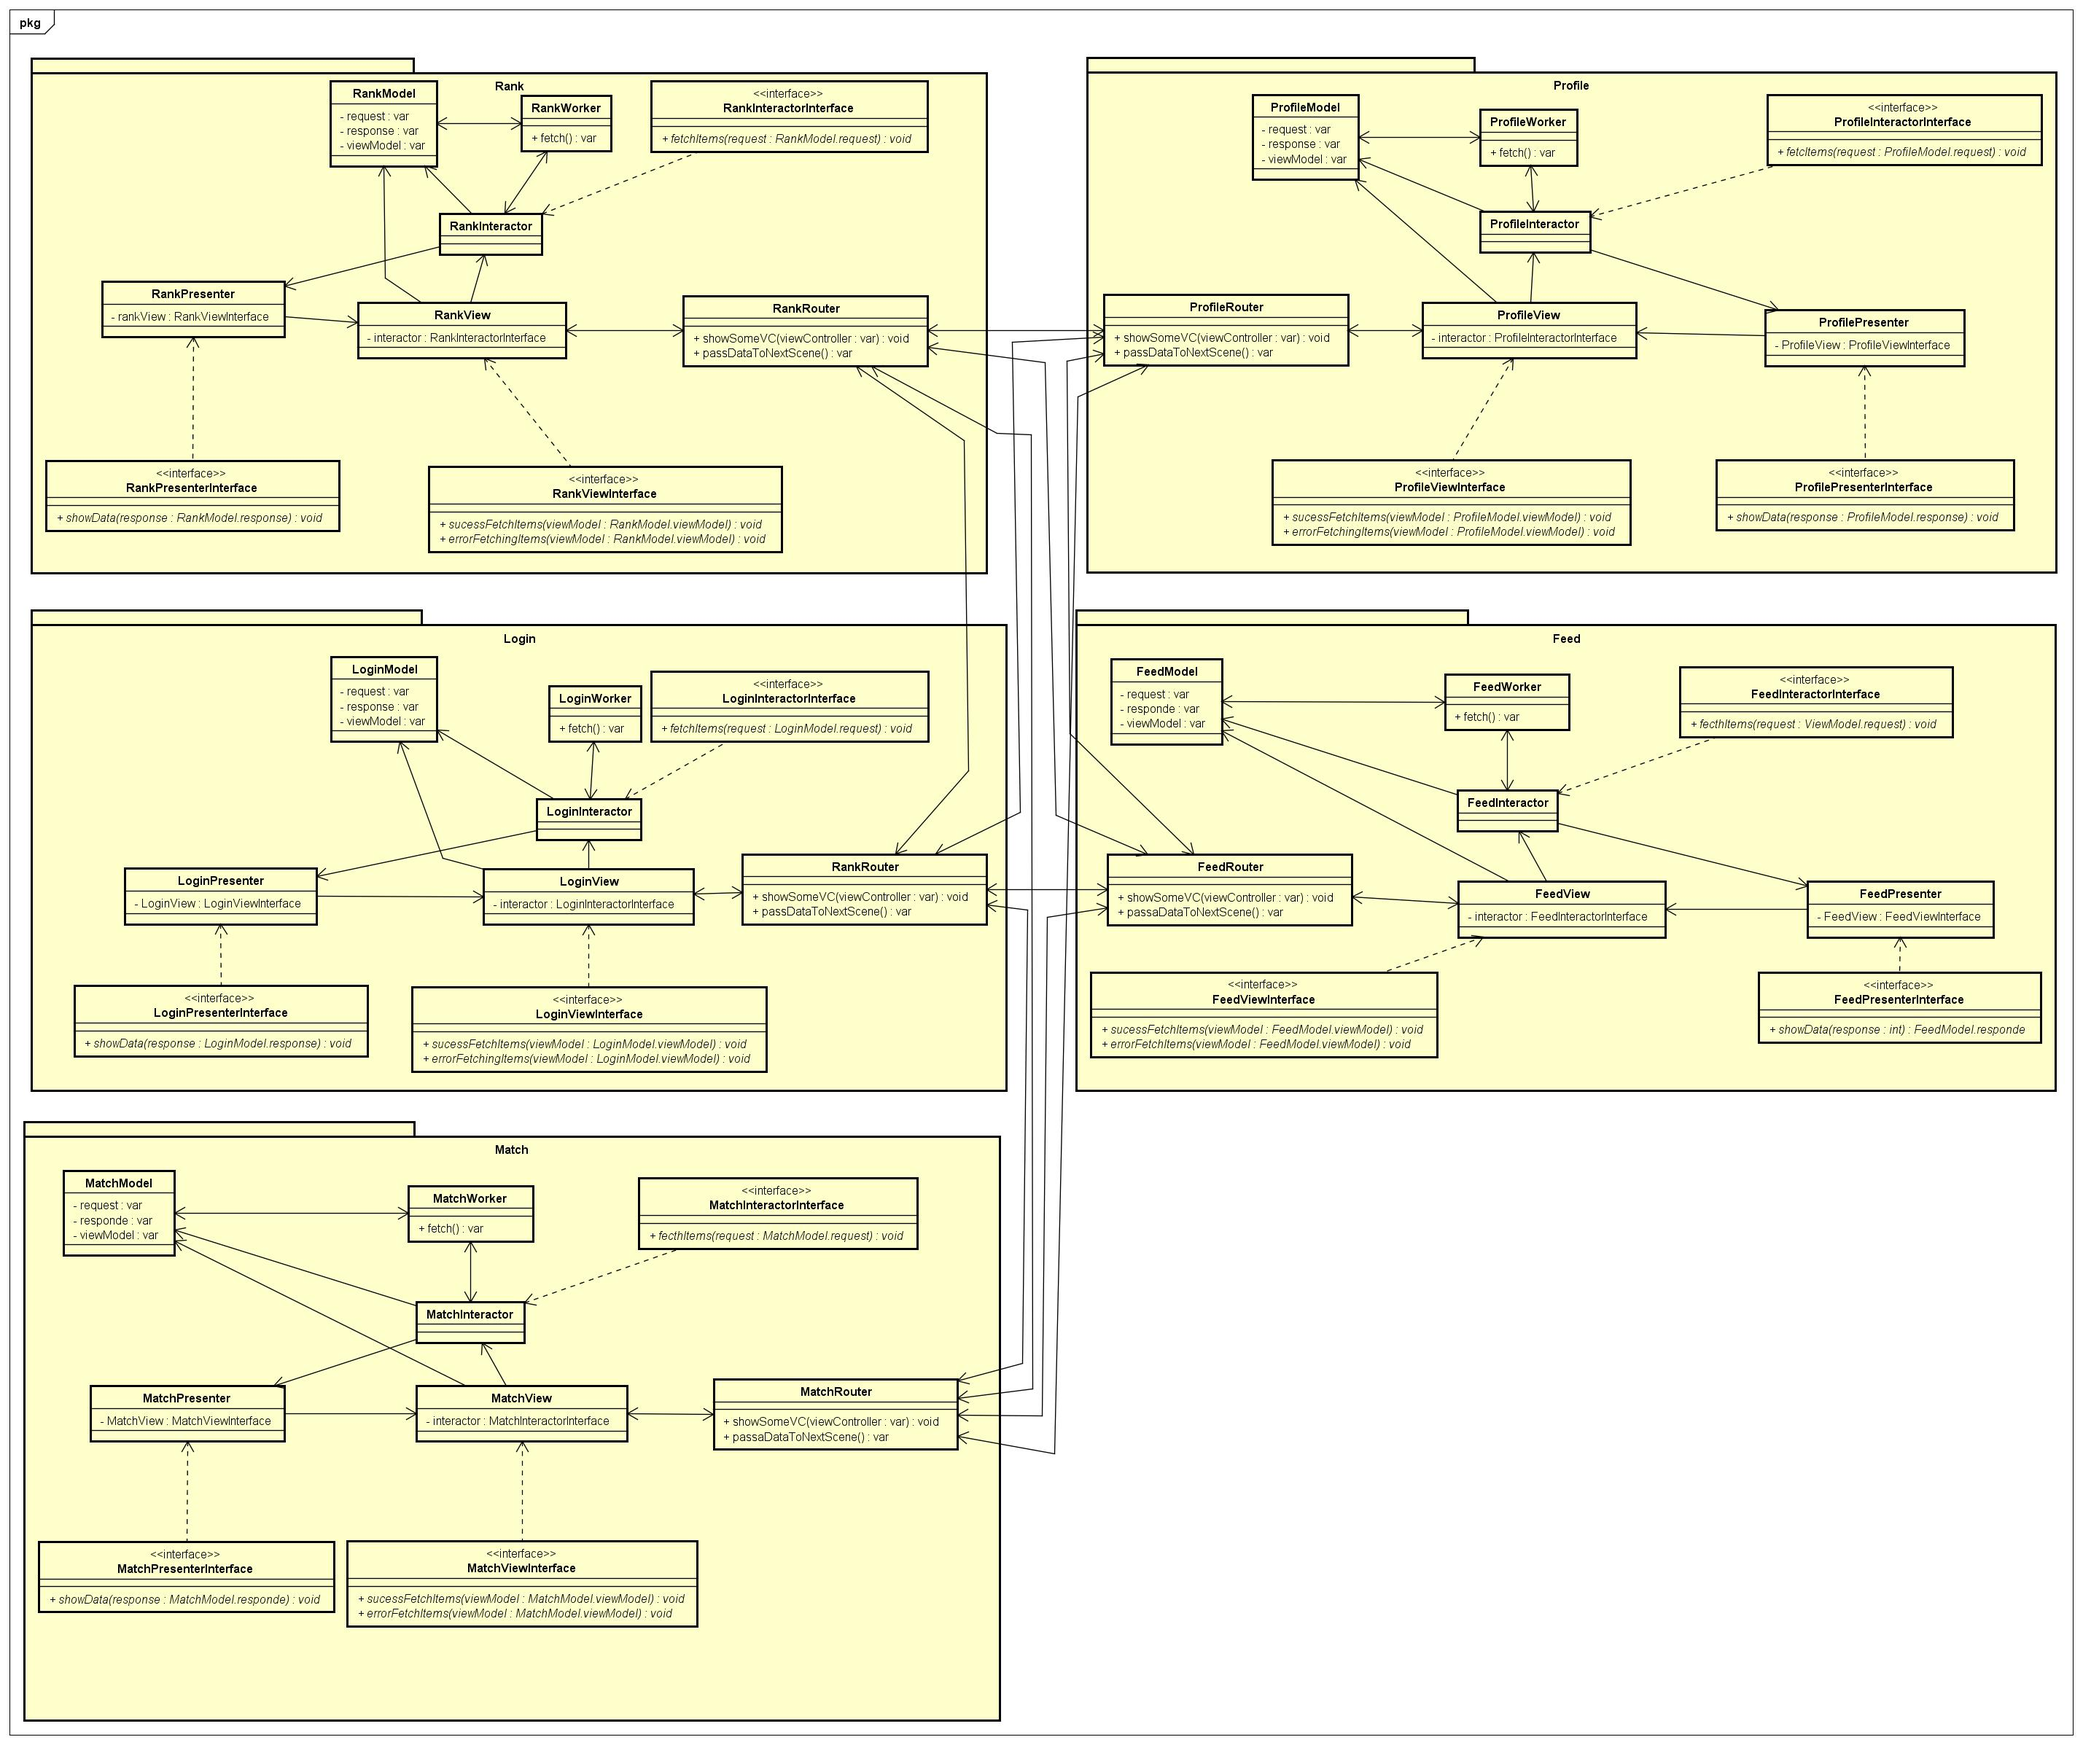
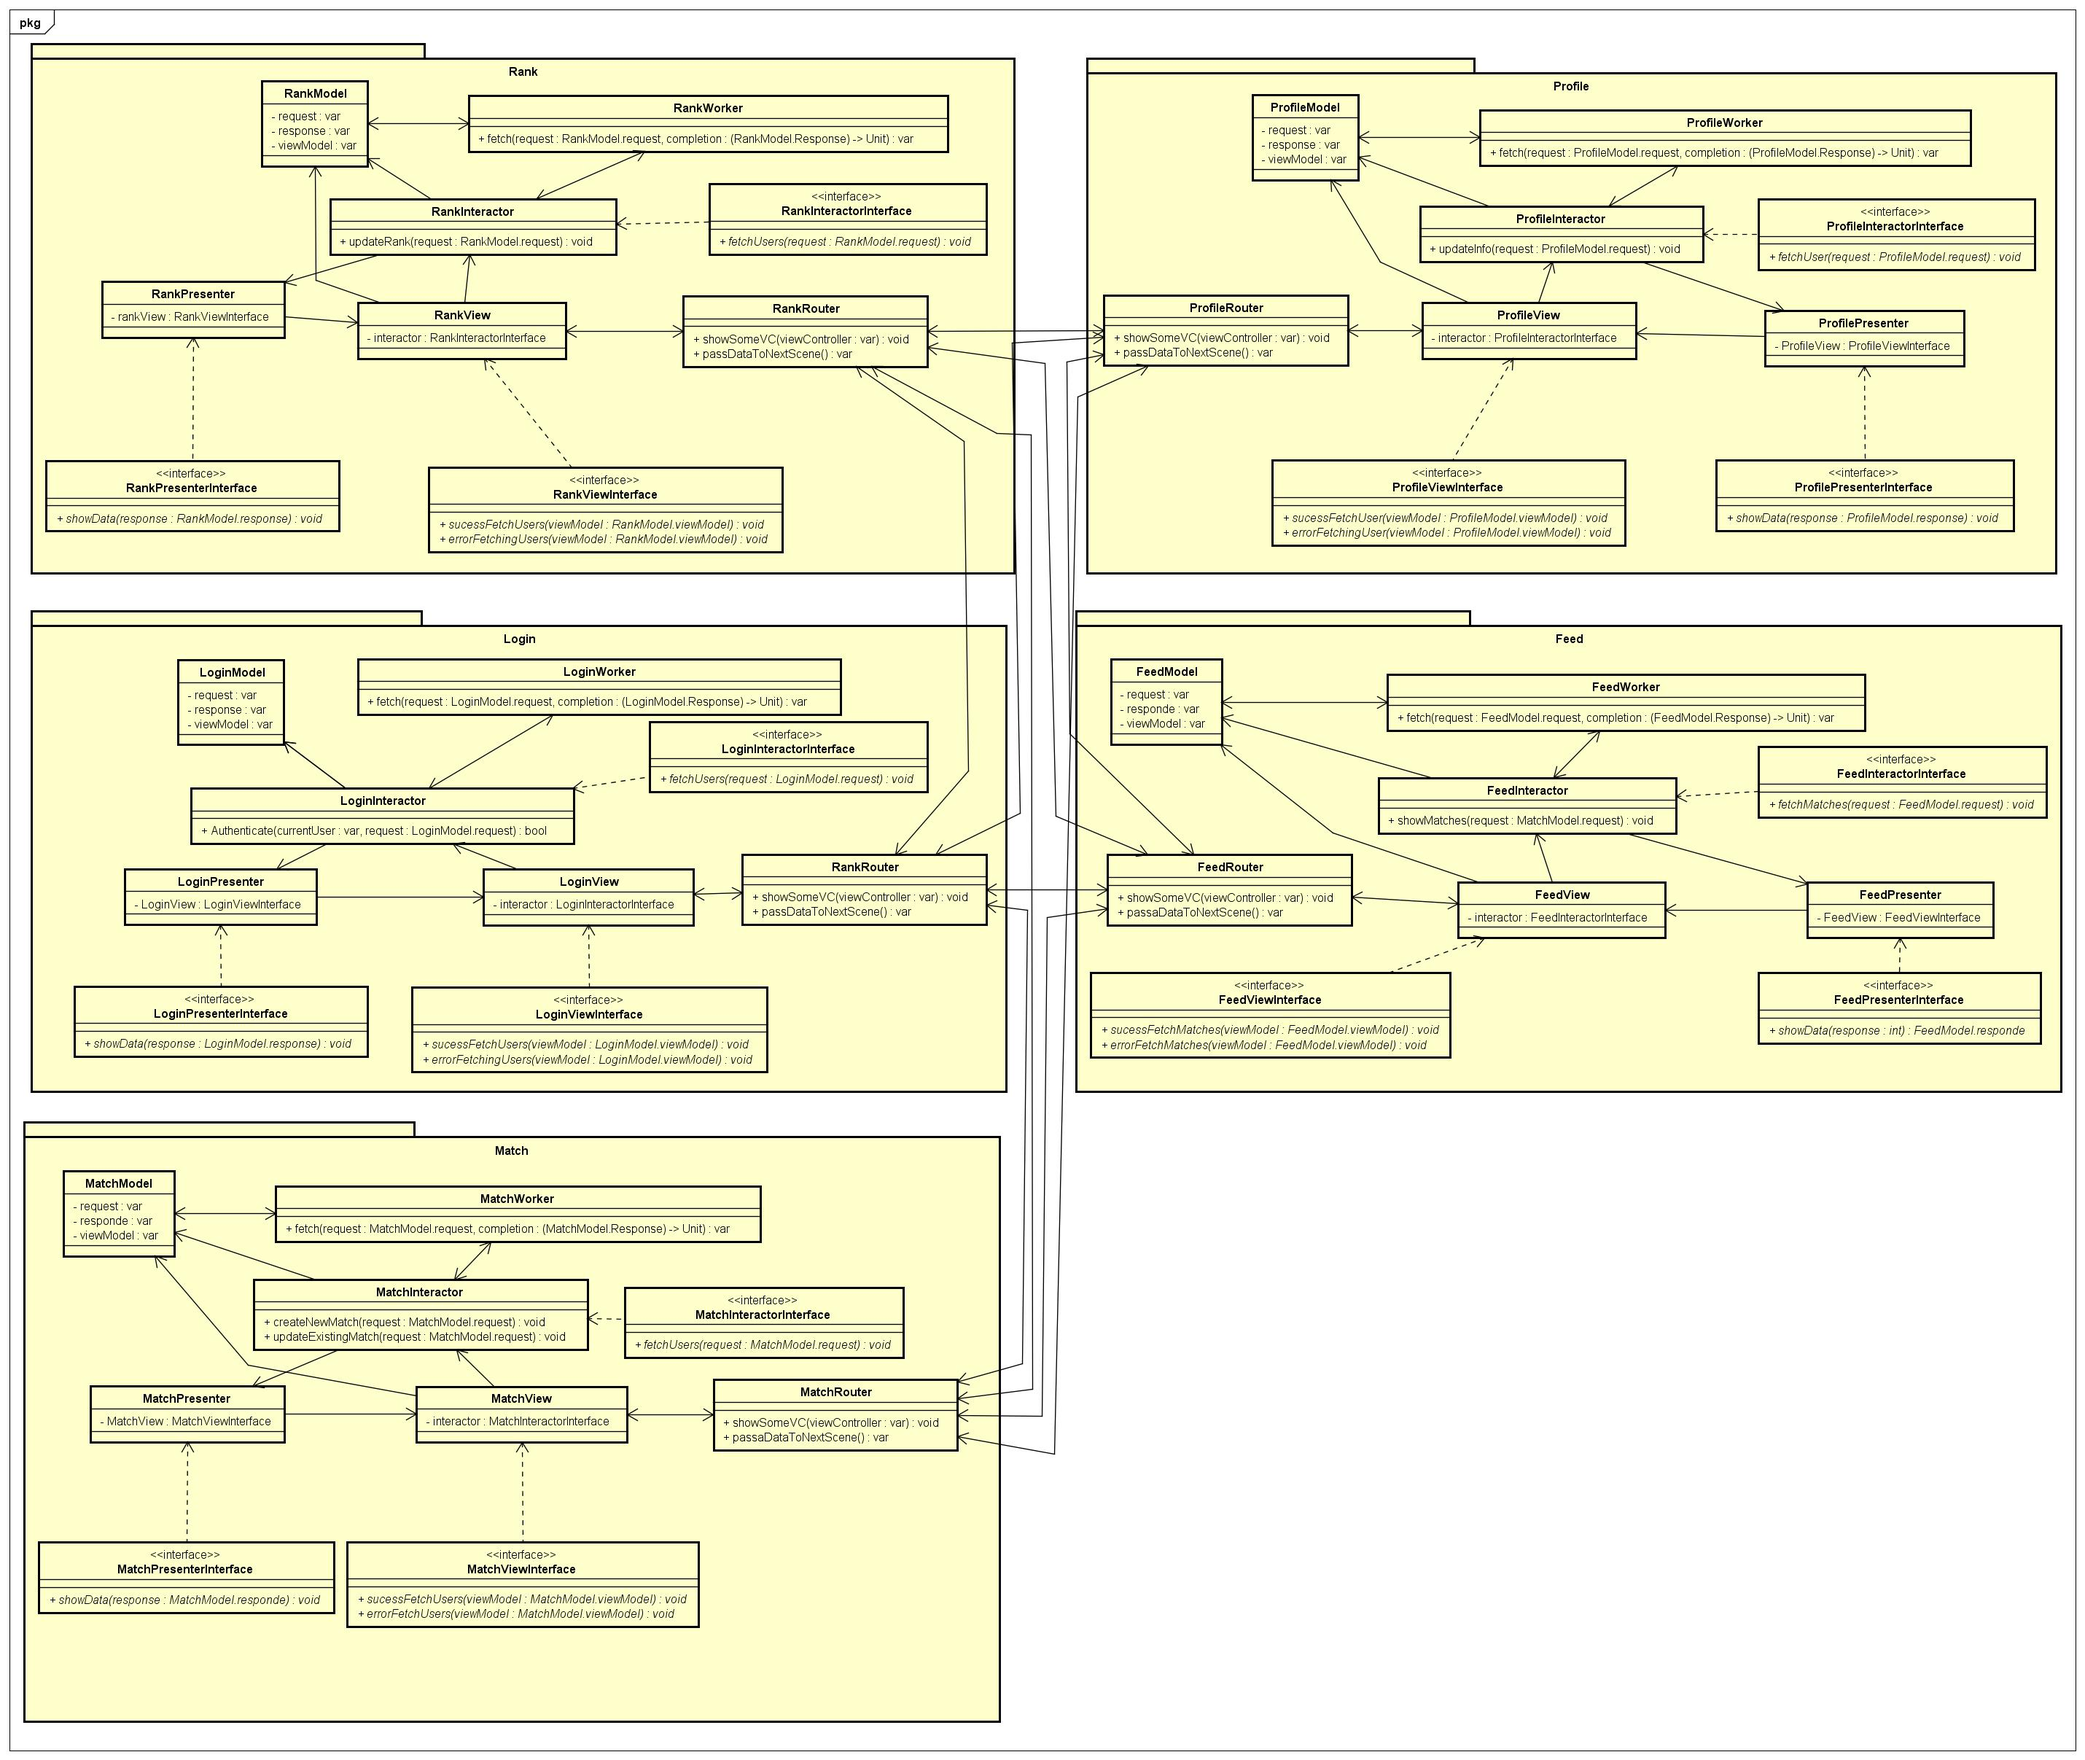
Fixed some topics and class diagram. Co-authored-by: Letícia Meneses <lmbs.geo@gmail.com> Co-authored-by: Lorrany Freire <lorranyfreire@hotmail.com>

Changed region(s): [[0.0, 0.0, 0.9968, 0.8346], [0.0, 0.8655, 0.3427, 0.9273], [0.0, 0.9582, 0.4984, 0.9891]]

diff --git a/Docs/DocArquitetura.md b/Docs/DocArquitetura.md
@@ -12,31 +12,31 @@
 | 21/03/2018| 0.5.1 | Revisão de texto e padronização do formato das tabelas| Alexandre Miguel |
 | 21/03/2018| 0.6 | Adicionado diagrama de classes | Gabriel Albino, Letícia Meneses e Lorrany Freire |
 | 21/03/2018| 0.7 | Adicionado o índice analítico e definidos os aspectos de qualidade | Alexandre Miguel e Helena Goulart |
+| 21/03/2018| 0.7.1 | Realizadas correções nos tópicos e no diagrama de classes | Gabriel Albino, Letícia Meneses e Lorrany Freire |
+
 
 ### Índice Analítico
-* [**1 Introdução**](#1-introdução)
-  * [1.1 Finalidade](#11-finalidade)
-  * [1.2 Escopo](#12-acrônimos-e-abreviações-escopo)
-  * [1.3 Definições, acrônimos e abreviações](#13-definições,-acrônimos-e-abreviações)
-  * [1.4 Referências](#14-referências)
-* [**2 Representação Arquitetural**](#2-Representação-arquitetural)
-* [**3 Requisitos e Restrições de Arquitetura**](#3-Requisitos-e-restrições-de-arquitetura)
-  * [3.1 Requisitos Gerais](#31-Restriçequisitos)
-  * [3.2 Restrições de Arquitetura](#32-Restrições de Arquitetura)
-* [**4 Visão Lógica**](#4-Visão-lógica)
-  * [4.1 Visão Geral - Pacotes e Camadas](#41-Visão-Geral-Pacotes-e-Camadas)
-  	* [4.1.1 Diagrama de Pacotes](#411-diagrama-de-pacotes)
-  	* [4.1.2 Diagrama de Camadas](#412-diagrama-de-camadas)  
-* [**5 Visão de implementação**](#5-visão-de-implementação)  
-  * [5.1 Casos de uso](#51-Casos-de-uso)
-  	* [5.1.1 Diagrama de Clases](#52-Diagrama-de-classes)
-  	* [5.1.2 Diagrama de Sequência](#53-Diagrama-de-sequência)
-* [**6 Visão de Implantação**](#6-Visão-de-implantação)
-* [**7 Dimensionamento**](#7-Dimensionamento)
-* [**8 Qualidade**](#8-Qualidade)
-  
 
-# Documento de arquitetura
+* [1 INTRODUÇÃO](#1-introdução)
+    * [1.1 Finalidade](#11-finalidade)
+    * [1.2 Escopo](#12-escopo)
+    * [1.3 Definições, Acrônimos e Abreviações](#13-definições-acrônimos-e-abreviações)
+    * [1.4 Referências](#14-referências)
+* [2. REPRESENTAÇÃO ARQUITETURAL](#2-representação-arquitetural)
+* [3. REQUISITOS E RESTRIÇÕES DE ARQUITETURA](#3-requisitos-e-restrições-de-arquitetura)
+    * [3.1 Requisitos gerais](#31-requisitos-gerais)
+    * [3.2 Restrições de arquitetura](#32-restrições-de-arquitetura)
+* [4. VISÃO LÓGICA](#4-visÃo-lógica)
+    * [4.1 Visão Geral – pacotes e camadas](#41-visão-geral-–-pacotes-e-camadas)
+    * [4.1.1 Diagrama de pacotes](#411-diagrama-de-pacotes)
+    * [4.1.2 Diagrama de camadas](#412-diagrama-de-camadas)
+* [5. VISÃO DE IMPLEMENTAÇÃO](#5-visão-de-implementação)
+    * [5.1 Caso de Uso](#51-caso-de-uso)
+    * [5.1.1  <em>Diagrama de Classes</em>](#511--diagrama-de-classes)
+    * [5.1.2 <em>Diagrama de Sequência</em>](#512-diagrama-de-sequência)
+* [6. VISÃO DE IMPLANTAÇÃO](#6-visão-de-implantação)
+* [7. DIMENSIONAMENTO](#7-dimensionamento)
+* [8. QUALIDADE](#8-qualidade)
 
 ## Nexte
 
@@ -67,11 +67,11 @@ Este Documento de Arquitetura de Software se aplica ao Nexte, auxiliando os dese
 
 ## 2. REPRESENTAÇÃO ARQUITETURAL
 
-Para a arquitetura será utilizado a "clean architecture", que se baseia em oito módulos:
-- Model: Responsável pelas regras de manipulação de dados e pode possuir modelos globais ou modelos locais de cada cena;
-- Worker: É responsável por controlar as requisições de dados ao local em que esses dados estã armazenados, isto é, se comunica com a model;
+Para a arquitetura será utilizado a "clean architecture", que se baseia em seis módulos:
+- Model: Responsável pelas regras de definição de dados e pode possuir modelos globais ou modelos locais de cada cena;
+- Worker: É responsável por controlar as requisições de dados ao local em que esses dados estão armazenados, isto é, faz requisições ao servidor ou ao banco de dados local;
 - View: Apresenta os elementos na interface gráfica;
-- Presenter: Formata os dados que serão exibidos e trata dos eventos da view;
+- Presenter: Formata os dados que serão exibidos e transmite essa informação para a view;
 - Interactor: Módulo centralizador que controla o fluxo entre o Presenter e o Worker;
 - Router: Controla o fluxo entre as cenas.
 
@@ -79,7 +79,7 @@ As relações entre os módulos estão representadas no esquema a seguir.
 
 Imagem 1: Relação entre os modulos da arquitetura clean
 
-![EsquemaDaCleanArchitecture](https://github.com/fga-gpp-mds/2018.1-Grupo4/blob/master/Docs/Images/architectureScheme.jpg?raw=true)
+![EsquemaDaCleanArchitecture](https://i.imgur.com/Pdhg9vp.jpg)
 
 ## 3. REQUISITOS E RESTRIÇÕES DE ARQUITETURA
 
@@ -124,7 +124,7 @@ No diagrama de pacotes temos que a arquitetura é composta de 3 pacotes, sendo e
 No diagrama de camadas é mostrado a interação entre os módulos, que são definidos como:
 
 - _Model_ : Responsável pelo armazenamento de dados;
-- _Worker_ : Responsável pela requisição dos dados da model;
+- _Worker_ : Responsável pela requisição dos dados para o servidor ou para um banco de dados local.;
 - _Iteractor_ : Responsável por controlar o fluxo entre o view, worker e presenter; 
 - _Presenter_ : Formata os dados que serão exibidos na view;
 - _View_ : Responsável pela interface gráfica e entrada de dados.
@@ -135,15 +135,10 @@ No diagrama de camadas é mostrado a interação entre os módulos, que são def
 ### 5.1 Caso de Uso
 
 #### 5.1.1  *Diagrama de Classes*
-![Diagrama de classes](https://i.imgur.com/ZMuSdM2.jpg)
+![Diagrama de classes](https://i.imgur.com/u8lGiaa.jpg)
 
 
 #### 5.1.2 *Diagrama de Sequência*
-[Exemplo:](https://camo.githubusercontent.com/4cc153d724bbed2843bfb19e638477a7c504b9c9/687474703a2f2f692e696d6775722e636f6d2f517868526875322e706e67)
-
-![Exemplo:](https://camo.githubusercontent.com/4cc153d724bbed2843bfb19e638477a7c504b9c9/687474703a2f2f692e696d6775722e636f6d2f517868526875322e706e67)
-
-
 
 ## 6. VISÃO DE IMPLANTAÇÃO
 
